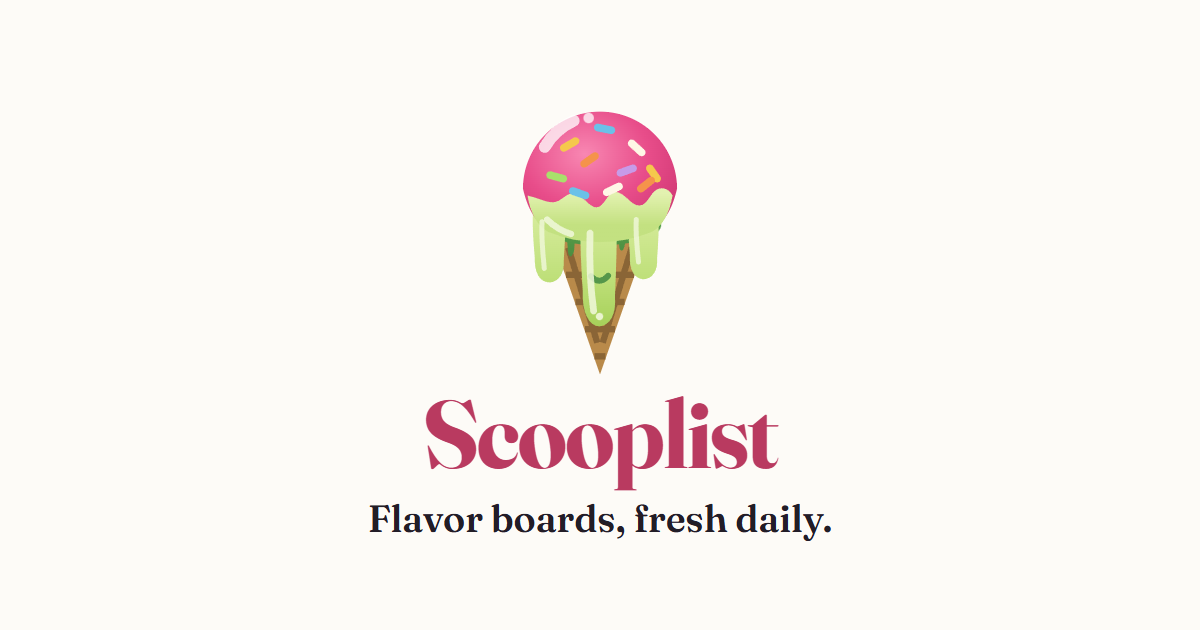
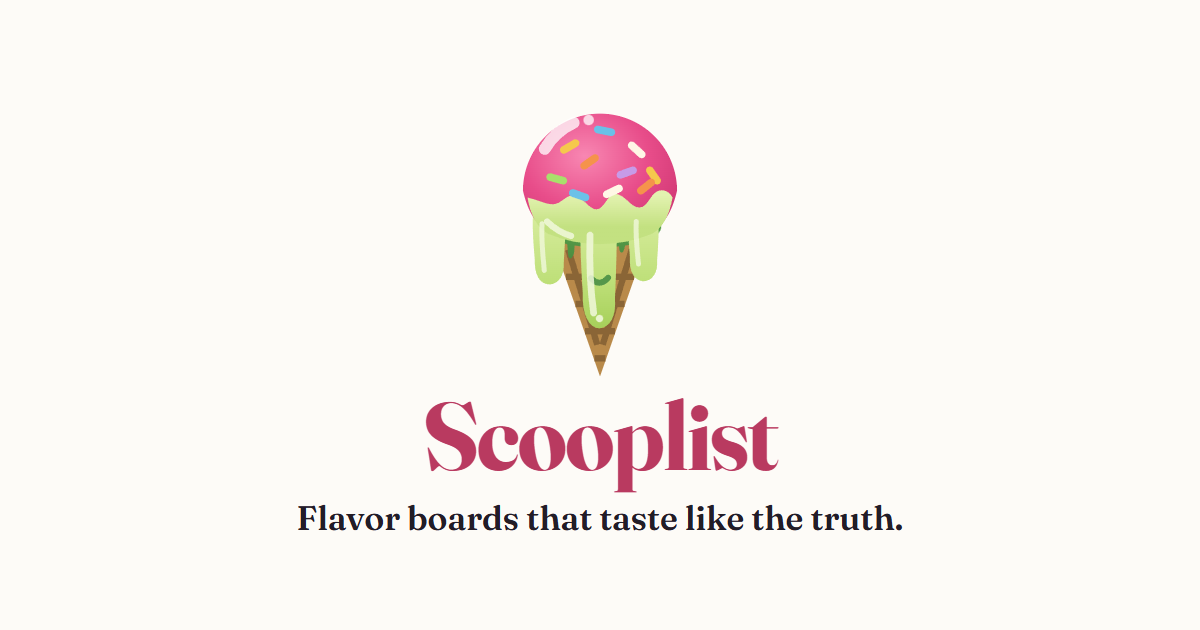
Kevin's tagline: flavor boards that taste like the truth
Better than what it replaces, and worth saying why: "fresh daily" was
borrowed from glazedweb's cadence and described the update frequency.
This one names what the product actually sells — a board that is RIGHT.
Everything in the app is plumbing in service of that single claim, so it
belongs on the landing, the login screen, the page title, and the share
card.

Regenerated og.png from tools/make-og.mjs (the longer line takes a
slightly smaller size to sit right on the card) rather than redrawing it
— which is the whole reason that script lives in the repo.

diff --git a/src/app/layout.tsx b/src/app/layout.tsx
@@ -22,7 +22,7 @@ const body = Figtree({
 
 export const metadata: Metadata = {
   title: {
-    default: "Scooplist — flavor boards, fresh daily",
+    default: "Scooplist — flavor boards that taste like the truth",
     template: "%s | Scooplist",
   },
   description:
@@ -30,13 +30,13 @@ export const metadata: Metadata = {
   /*
     The share card, in glazedweb's own composition: cream field, the mark
     large and centered, the name and tagline beneath. Regenerate it with
-    scratchpad/make-og.mjs whenever the mark or the tagline changes — it is
+    tools/make-og.mjs whenever the mark or the tagline changes — it is
     a rendered PNG, and you cannot grep an image.
   */
   openGraph: {
     type: "website",
     siteName: "Scooplist",
-    title: "Scooplist — flavor boards, fresh daily",
+    title: "Scooplist — flavor boards that taste like the truth",
     description:
       "Blow through a tub at 2:15. By 2:16 the website, the TV board, and the sign over the counter have all caught up.",
     images: [
@@ -44,7 +44,7 @@ export const metadata: Metadata = {
         url: "/og.png",
         width: 1200,
         height: 630,
-        alt: "Scooplist: a pink scoop with sprinkles on a waffle cone, green glaze dripping off it, over the line Flavor boards, fresh daily.",
+        alt: "Scooplist: a pink scoop with sprinkles on a waffle cone, green glaze dripping off it, over the line Flavor boards that taste like the truth.",
       },
     ],
   },

diff --git a/src/app/page.tsx b/src/app/page.tsx
@@ -28,10 +28,14 @@ export default async function Home() {
       <h1 className="mt-1 font-[family-name:var(--font-display)] text-5xl font-bold tracking-tight text-berry sm:text-6xl lg:text-8xl">
         Scooplist
       </h1>
-      {/* The tagline answers glazedweb's "Websites, fresh daily." on purpose:
-          same cadence, so the two read as one studio. */}
+      {/*
+        Kevin's line, and it beats the one it replaced: "fresh daily" was
+        borrowed from glazedweb's cadence, while this names what the product
+        actually sells — a board that is RIGHT. Everything else here is
+        plumbing in service of that one claim.
+      */}
       <p className="mt-2 font-[family-name:var(--font-display)] text-xl font-semibold text-ink sm:text-2xl lg:text-3xl">
-        Flavor boards, fresh daily.
+        Flavor boards that taste like the truth.
       </p>
       {/*
         The pitch is a scene, not a feature list: a real thing that happens at

diff --git a/src/app/login/page.tsx b/src/app/login/page.tsx
@@ -29,7 +29,7 @@ export default async function LoginPage({
         Scooplist
       </p>
       <p className="mt-1.5 font-[family-name:var(--font-display)] text-lg font-semibold text-ink sm:text-xl">
-        Flavor boards, fresh daily.
+        Flavor boards that taste like the truth.
       </p>
       <h1 className="mt-7 text-xl font-semibold">Shop PIN</h1>
       <form method="post" action="/api/login" className="mt-3 w-full">
